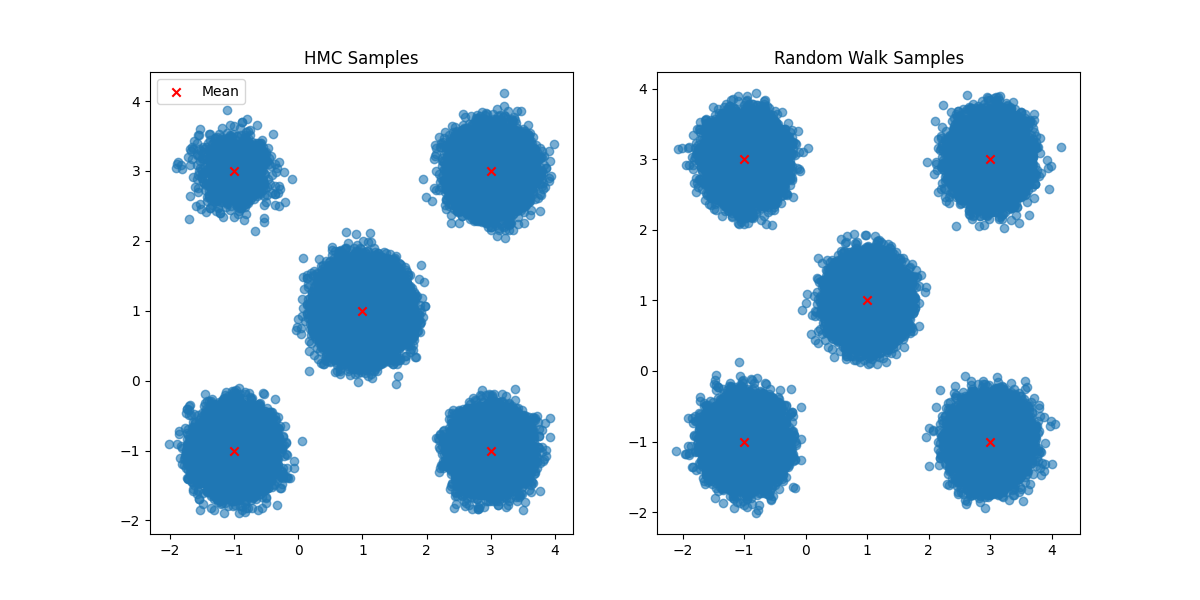
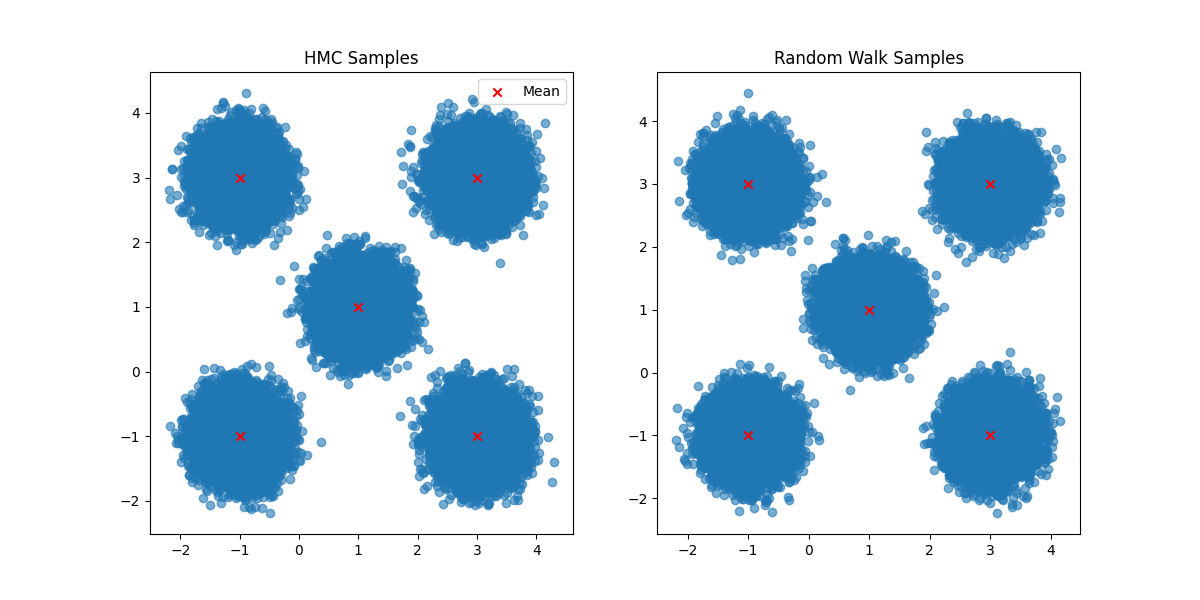
update

diff --git a/jaxhmc/mcmc.py b/jaxhmc/mcmc.py
@@ -151,12 +151,12 @@ def update_welford_state(
     **kwargs,
 ):
     q, key, welford_state, precm, precm_L = carry
-    new_q, key, _, new_ws = jax.lax.fori_loop(
+    new_q, key, nesterov_state, new_ws = jax.lax.fori_loop(
         lower=0,
         upper=initial_chain_length * (2**i),
         body_fun=partial(
             hmc_fori_step,
-            step_size_tuning=False,
+            step_size_tuning=True,
             momentum_tuning=True,
             precm=precm,
             precm_L=precm_L,
@@ -226,6 +226,8 @@ def hmc_tune(
         ),
         init_val=(q, key, welford_state, precm, precm_L),
     )
+
+    nesterov_state = nesterov_state.replace(t=1)
 
     # We further refine the step size based on the updated momentum.
     (q, key, nesterov_state, _), _ = run_hmc_chain(

diff --git a/examples/gaussian_mixture.py b/examples/gaussian_mixture.py
@@ -27,10 +27,10 @@ means = jnp.vstack(
     ],
 )
 
-potential = GaussianMixturePotential(means=means, sigma=0.25)
+potential = GaussianMixturePotential(means=means, sigma=0.3)
 config = HMCConfig(
     initial_step_size=0.2,
-    max_path_len=2,
+    max_path_len=6,
     iterations=SAMPLES,
     initial_precm=jnp.eye(dim),
     key=key,
